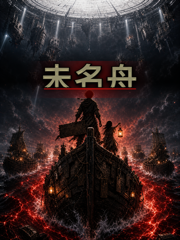
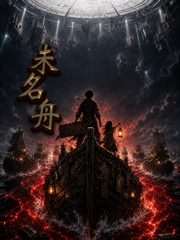
优化推荐期封面题名设计

Changed region(s): [[0.0833, 0.175, 0.8889, 0.5833], [0.8889, 0.2625, 0.9722, 0.3208]]

diff --git a/assets/covers/make_cover_floating_gold_title_20260623.swift b/assets/covers/make_cover_floating_gold_title_20260623.swift
@@ -1,0 +1,192 @@
+import AppKit
+import CoreText
+
+let inputPath = CommandLine.arguments.count > 1 ? CommandLine.arguments[1] : "weimingzhou_cover_recommend_base_20260623.png"
+let outputPath = CommandLine.arguments.count > 2 ? CommandLine.arguments[2] : "weimingzhou_cover_recommend_title_20260623.png"
+let thumbPath = CommandLine.arguments.count > 3 ? CommandLine.arguments[3] : "weimingzhou_cover_recommend_thumb_20260623.png"
+
+let fontPaths = [
+    "/System/Library/AssetsV2/com_apple_MobileAsset_Font8/c745f84f5eb15b1f594d3769dc86146fccee61ff.asset/AssetData/WeibeiSC-Bold.otf",
+    "/System/Library/AssetsV2/PreinstalledAssetsV2/InstallWithOs/com_apple_MobileAsset_Font7/ed859925cd6b258d132f031b110e194945a104b1.asset/AssetData/WeibeiSC-Bold.otf"
+]
+
+for path in fontPaths where FileManager.default.fileExists(atPath: path) {
+    CTFontManagerRegisterFontsForURL(URL(fileURLWithPath: path) as CFURL, .process, nil)
+}
+
+guard let source = NSImage(contentsOfFile: inputPath) else {
+    fatalError("Cannot open input image: \(inputPath)")
+}
+
+func writePNG(_ image: NSImage, to path: String) {
+    guard let tiff = image.tiffRepresentation,
+          let bitmap = NSBitmapImageRep(data: tiff),
+          let png = bitmap.representation(using: .png, properties: [:]) else {
+        fatalError("Cannot encode output image: \(path)")
+    }
+    try! png.write(to: URL(fileURLWithPath: path))
+}
+
+func coverRect(sourceSize: NSSize, targetSize: NSSize) -> NSRect {
+    let sourceRatio = sourceSize.width / sourceSize.height
+    let targetRatio = targetSize.width / targetSize.height
+    let drawSize: NSSize
+
+    if sourceRatio > targetRatio {
+        drawSize = NSSize(width: targetSize.height * sourceRatio, height: targetSize.height)
+    } else {
+        drawSize = NSSize(width: targetSize.width, height: targetSize.width / sourceRatio)
+    }
+
+    return NSRect(
+        x: (targetSize.width - drawSize.width) / 2,
+        y: (targetSize.height - drawSize.height) / 2,
+        width: drawSize.width,
+        height: drawSize.height
+    )
+}
+
+func paragraph(_ alignment: NSTextAlignment) -> NSMutableParagraphStyle {
+    let style = NSMutableParagraphStyle()
+    style.alignment = alignment
+    return style
+}
+
+func titleFont(size: CGFloat) -> NSFont {
+    return NSFont(name: "WeibeiSC-Bold", size: size)
+        ?? NSFont(name: "STSongti-SC-Black", size: size)
+        ?? NSFont(name: "PingFangSC-Semibold", size: size)
+        ?? NSFont.boldSystemFont(ofSize: size)
+}
+
+func drawText(_ text: String, in rect: NSRect, font: NSFont, fill: NSColor, stroke: NSColor, strokeWidth: CGFloat, shadow: NSShadow?, kern: CGFloat) {
+    var attrs: [NSAttributedString.Key: Any] = [
+        .font: font,
+        .foregroundColor: fill,
+        .paragraphStyle: paragraph(.center),
+        .strokeColor: stroke,
+        .strokeWidth: -strokeWidth,
+        .kern: kern
+    ]
+    if let shadow {
+        attrs[.shadow] = shadow
+    }
+    NSString(string: text).draw(in: rect, withAttributes: attrs)
+}
+
+func drawGoldCharacter(_ char: String, center: CGPoint, size: CGFloat, rotation: CGFloat, canvas: NSSize) {
+    let rect = NSRect(
+        x: center.x - size * 0.62,
+        y: center.y - size * 0.60,
+        width: size * 1.24,
+        height: size * 1.38
+    )
+
+    NSGraphicsContext.saveGraphicsState()
+    let transform = NSAffineTransform()
+    transform.translateX(by: center.x, yBy: center.y)
+    transform.rotate(byDegrees: rotation)
+    transform.translateX(by: -center.x, yBy: -center.y)
+    transform.concat()
+
+    let emberGlow = NSShadow()
+    emberGlow.shadowColor = NSColor(red: 0.95, green: 0.11, blue: 0.02, alpha: 0.32)
+    emberGlow.shadowBlurRadius = canvas.width * 0.014
+    emberGlow.shadowOffset = .zero
+
+    let blackDrop = NSShadow()
+    blackDrop.shadowColor = NSColor.black.withAlphaComponent(0.98)
+    blackDrop.shadowBlurRadius = canvas.width * 0.020
+    blackDrop.shadowOffset = NSSize(width: 0, height: -canvas.height * 0.005)
+
+    drawText(
+        char,
+        in: rect.offsetBy(dx: 0, dy: -size * 0.035),
+        font: titleFont(size: size),
+        fill: NSColor(red: 0.020, green: 0.010, blue: 0.004, alpha: 0.96),
+        stroke: NSColor.black.withAlphaComponent(0.98),
+        strokeWidth: size * 0.076,
+        shadow: blackDrop,
+        kern: 0
+    )
+
+    drawText(
+        char,
+        in: rect,
+        font: titleFont(size: size),
+        fill: NSColor(red: 1.00, green: 0.78, blue: 0.32, alpha: 0.98),
+        stroke: NSColor(red: 0.075, green: 0.030, blue: 0.012, alpha: 0.98),
+        strokeWidth: size * 0.036,
+        shadow: emberGlow,
+        kern: 0
+    )
+
+    drawText(
+        char,
+        in: rect.offsetBy(dx: 0, dy: size * 0.035),
+        font: titleFont(size: size),
+        fill: NSColor(red: 1.00, green: 0.98, blue: 0.66, alpha: 0.34),
+        stroke: .clear,
+        strokeWidth: 0,
+        shadow: nil,
+        kern: 0
+    )
+
+    let slash = NSBezierPath()
+    slash.move(to: CGPoint(x: rect.minX + rect.width * 0.26, y: rect.minY + rect.height * 0.62))
+    slash.line(to: CGPoint(x: rect.maxX - rect.width * 0.28, y: rect.minY + rect.height * 0.76))
+    slash.lineWidth = max(1.5, size * 0.018)
+    slash.lineCapStyle = .round
+    NSColor(red: 1.0, green: 0.95, blue: 0.56, alpha: 0.20).setStroke()
+    slash.stroke()
+
+    NSGraphicsContext.restoreGraphicsState()
+}
+
+func drawFloatingTitle(on canvas: NSSize) {
+    let size = canvas.width * 0.190
+    let chars = ["未", "名", "舟"]
+    let centers = [
+        CGPoint(x: canvas.width * 0.245, y: canvas.height * 0.735),
+        CGPoint(x: canvas.width * 0.178, y: canvas.height * 0.620),
+        CGPoint(x: canvas.width * 0.252, y: canvas.height * 0.505)
+    ]
+    let rotations: [CGFloat] = [-6, 4, -4]
+
+    for i in 0..<3 {
+        drawGoldCharacter(chars[i], center: centers[i], size: size, rotation: rotations[i], canvas: canvas)
+    }
+}
+
+func render(size: NSSize) -> NSImage {
+    let image = NSImage(size: size)
+    image.lockFocus()
+
+    NSColor.black.setFill()
+    NSRect(origin: .zero, size: size).fill()
+
+    if let ctx = NSGraphicsContext.current {
+        ctx.imageInterpolation = .high
+    }
+
+    source.draw(in: coverRect(sourceSize: source.size, targetSize: size), from: .zero, operation: .copy, fraction: 1.0)
+    drawFloatingTitle(on: size)
+
+    image.unlockFocus()
+    return image
+}
+
+let final = render(size: NSSize(width: 1080, height: 1440))
+writePNG(final, to: outputPath)
+
+let thumb = NSImage(size: NSSize(width: 180, height: 240))
+thumb.lockFocus()
+if let ctx = NSGraphicsContext.current {
+    ctx.imageInterpolation = .high
+}
+final.draw(in: NSRect(x: 0, y: 0, width: 180, height: 240), from: .zero, operation: .copy, fraction: 1.0)
+thumb.unlockFocus()
+writePNG(thumb, to: thumbPath)
+
+print(outputPath)
+print(thumbPath)

diff --git a/assets/covers/README.md b/assets/covers/README.md
@@ -6,14 +6,14 @@
 
 - `weimingzhou_cover_recommend_title_20260623.png`
   - 番茄推荐期优先测试稿，尺寸 1080x1440。
-  - 视觉重点：主角与妹妹站船头、舰队聚拢、红色裂水、天上拆城。
-  - 标题为本地真实字体叠加，不使用 AI 绘图模型生成文字。
+  - 视觉重点：主角与妹妹站船头、舰队聚拢、红色裂水、天上拆城，书名以无底色金字竖向错落压在左侧暗云区。
+  - 标题为本地真实字体和代码合成，不使用 AI 绘图模型生成文字，避免乱码。
 - `weimingzhou_cover_recommend_thumb_20260623.png`
   - 180x240 缩略图检查稿，用于判断推荐位小图是否还能读出书名和冲突。
 - `weimingzhou_cover_recommend_base_20260623.png`
   - 无标题底图。需要换标题位置、字体或副标题时，从这张重新生成。
-- `make_cover_recommend_20260623.swift`
-  - 当前推荐期封面标题叠加脚本。
+- `make_cover_floating_gold_title_20260623.swift`
+  - 当前推荐期封面标题脚本，只绘制金色题名字层，不加木板、破帆、红条或半透明底。
 
 ## 旧版保留封面
 
@@ -26,4 +26,4 @@
 
 ## 当前封面判断
 
-推荐期优先用新稿测试点击，因为它在小图里更快给出三个信号：书名、末世舰队、地球被拆。旧稿更偏“舰队与未名岸已经成型”的中后期气质，可以留作后续换封或宣传物料。
+推荐期优先用新稿测试点击，因为它在小图里更快给出三个信号：金色竖向书名、末世舰队、地球被拆。旧稿更偏“舰队与未名岸已经成型”的中后期气质，可以留作后续换封或宣传物料。

diff --git a/docs/27_番茄书籍简介_新版.md b/docs/27_番茄书籍简介_新版.md
@@ -98,6 +98,8 @@
 
 副标题不建议放进封面小图。番茄列表里小字容易变噪点，简介和推荐语负责解释，封面负责让人停手。
 
+当前标题处理采用竖向错落金字：不加木板、破帆、红条或半透明底，只保留金色文字、暗描边和轻微反光，避免横排大字压画面、裁底和 UI 贴条感。
+
 ## 标签建议
 
 - 末世生存